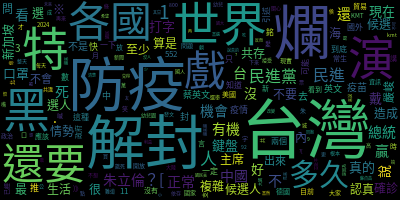
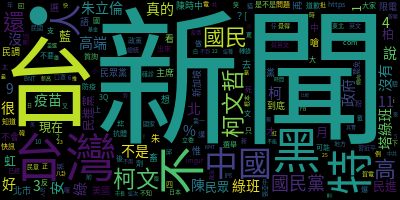
final?

diff --git a/wdcloud.py b/wdcloud.py
@@ -11,7 +11,7 @@ from PIL import Image
 import jieba
 import numpy as np
 from collections import Counter
-file = open("hateee.json",'r',encoding='utf-8')
+file = open("HatePolitics.json",'r',encoding='utf-8')
 papers = " "
 ###U have to follow the step to open the distinct file
 ###def wdcloud(file):
